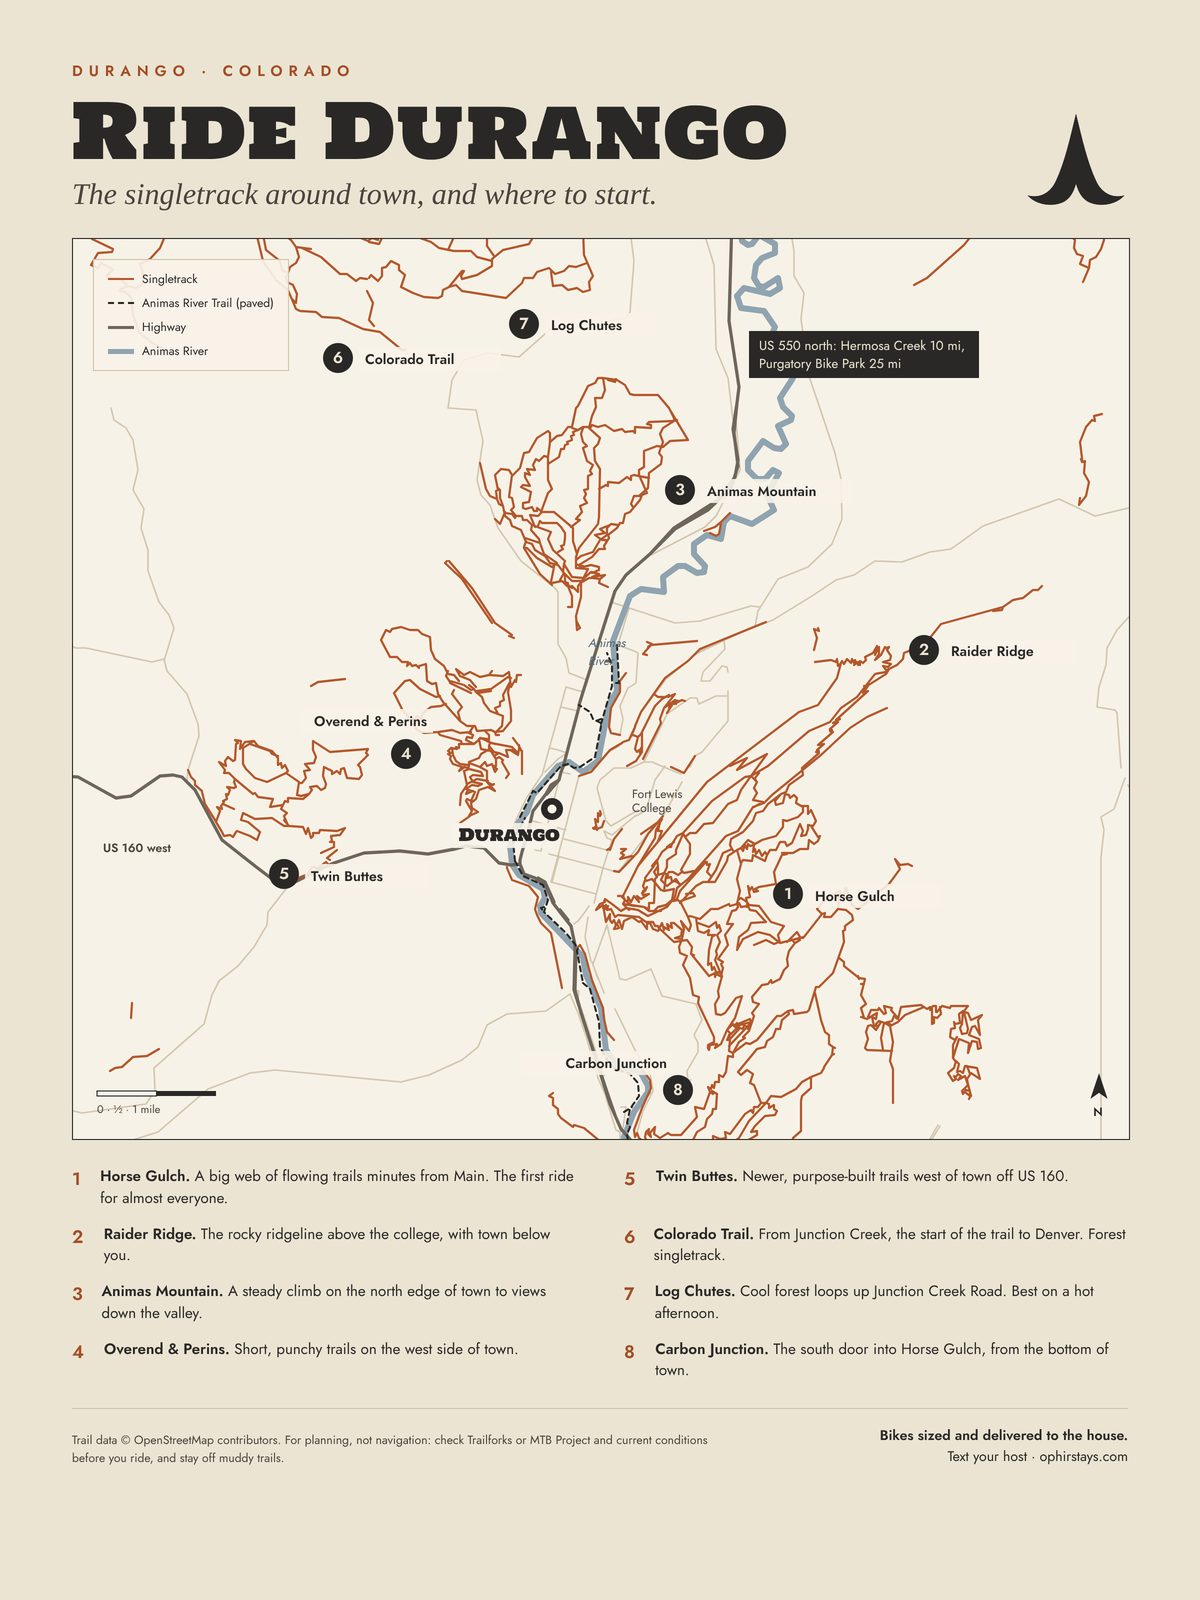
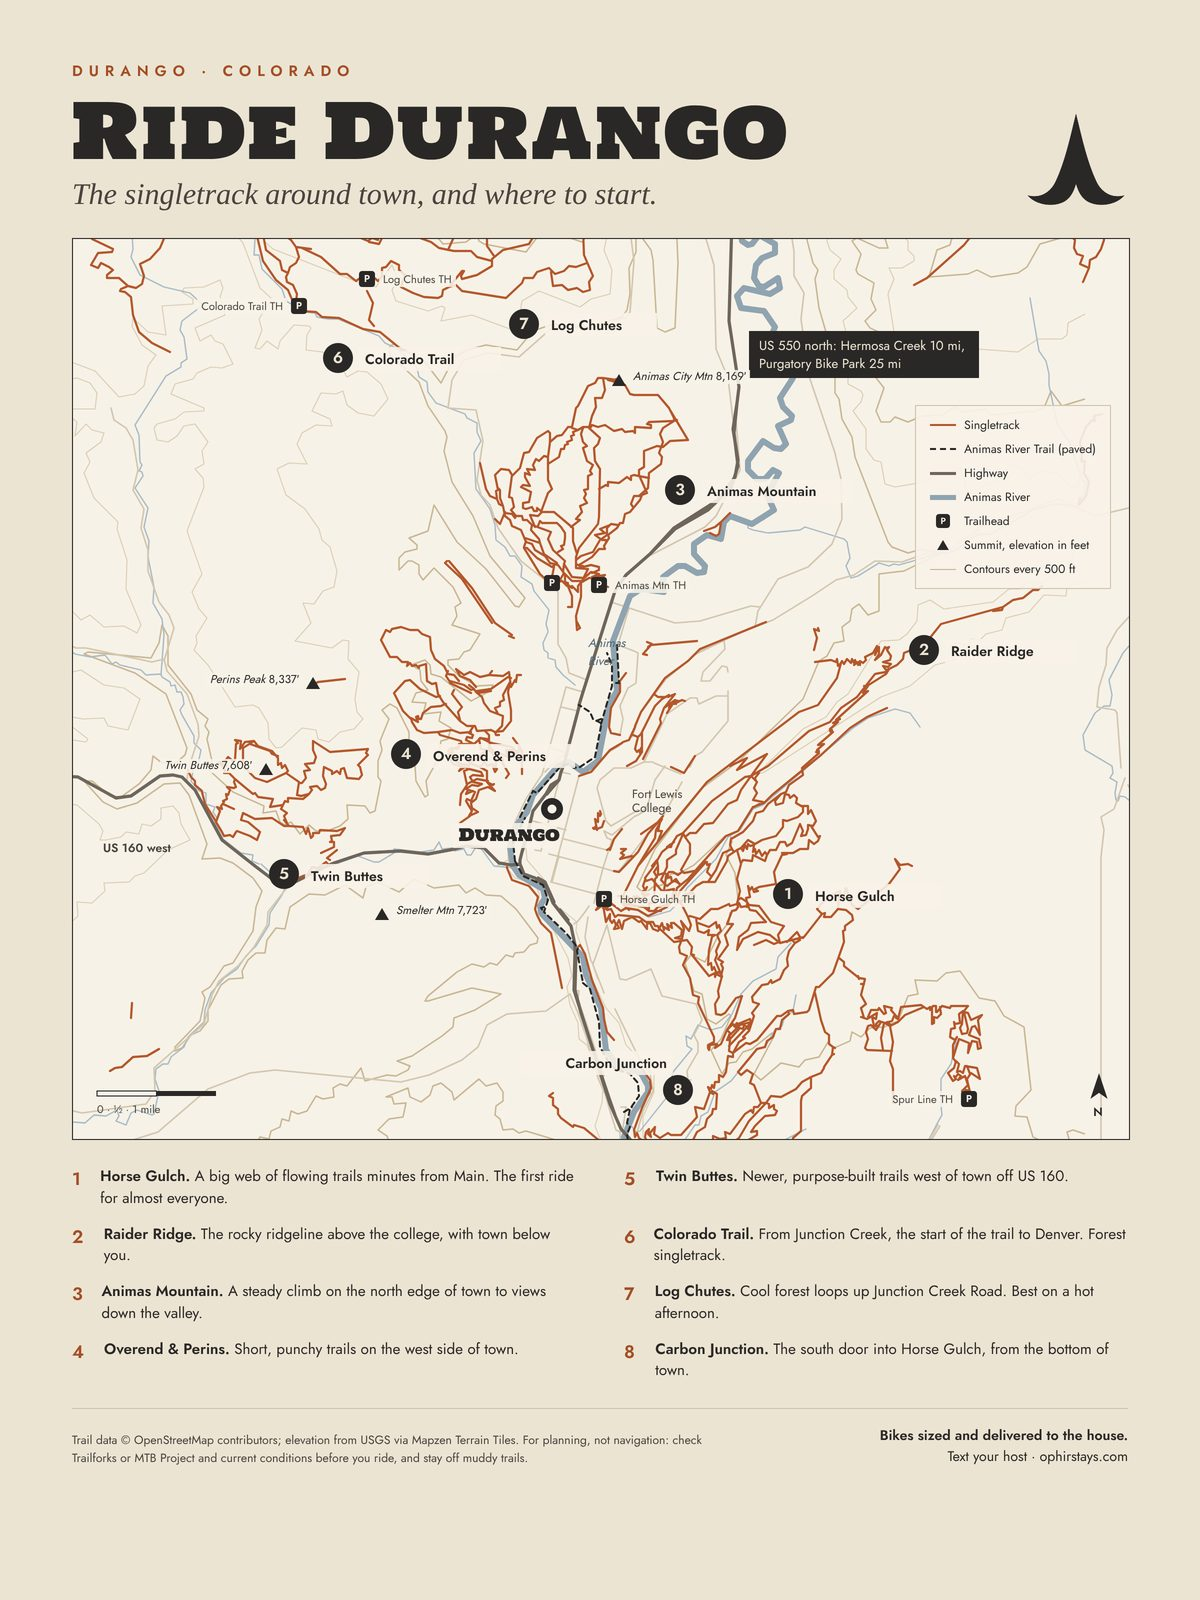
Trail map v3: contours, summits, trailheads, creeks, town streets
Claude-Session: https://claude.ai/code/session_01FNBHKbAAEpefPrqePf2VLs

diff --git a/trail-map.html b/trail-map.html
@@ -64,7 +64,7 @@
     <div class="wrap narrow article" style="margin-top:32px">
       <p>Staying with Ophir? Bikes are sized to each rider and delivered to the house, and we'll match the ride to the weather and your legs. For turn-by-turn navigation on the trail, use Trailforks or MTB Project, and stay off trails when they're muddy.</p>
       <p><a href="/journal/durango-rides">Read: five rides that show you Durango</a></p>
-      <p class="fine">Trail data © OpenStreetMap contributors.</p>
+      <p class="fine">Trail data © OpenStreetMap contributors. Elevation from USGS via Mapzen Terrain Tiles.</p>
     </div>
   </section>
 

diff --git a/build.py b/build.py
@@ -809,7 +809,7 @@ trailmap_body = f"""
     <div class="wrap narrow article" style="margin-top:32px">
       <p>Staying with Ophir? Bikes are sized to each rider and delivered to the house, and we'll match the ride to the weather and your legs. For turn-by-turn navigation on the trail, use Trailforks or MTB Project, and stay off trails when they're muddy.</p>
       <p><a href="/journal/durango-rides">Read: five rides that show you Durango</a></p>
-      <p class="fine">Trail data © OpenStreetMap contributors.</p>
+      <p class="fine">Trail data © OpenStreetMap contributors. Elevation from USGS via Mapzen Terrain Tiles.</p>
     </div>
   </section>
 """
